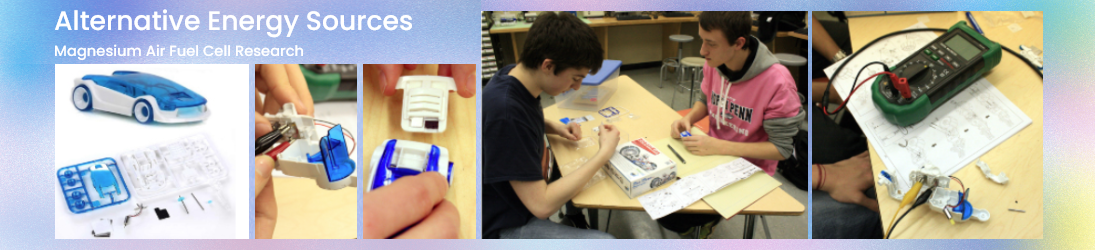
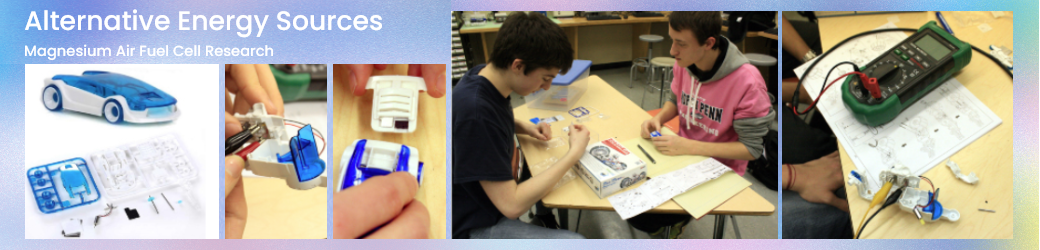
visual changes

diff --git a/css/index.css b/css/index.css
@@ -198,11 +198,13 @@ p > span > a:hover{
 }
 .mySlides {
 	display: none;
-	height: 100%;
+    height: 100%;
 }
 .mySlides img {
 	width: 100%;
-	height: 100%;
+    height: 100%;
+    border-radius: 20px;
+    -webkit-user-drag: none;
 }
 .slideshow-container {
 	overflow: hidden;
@@ -213,9 +215,10 @@ p > span > a:hover{
     margin-right: auto;
     display: flex;
     justify-content: center;
-    border-radius: 20px;
+    /* border-radius: 20px; */
 	width: 1095px;
-	height: 250px;
+    height: 250px;
+    -webkit-user-drag: none;
 }
 
 /************CSS Animation***********/

diff --git a/index.html b/index.html
@@ -30,7 +30,7 @@
             <img src="img/Alt_Energy_Sources.png">
          </div>
          <div class="mySlides animated">
-            <img src="img/sample_image_3.png">
+            <img src="img/energy_harvest_slide.png">
          </div>
          <div class="mySlides animated">
             <img src="img/sample_image_4.png">
